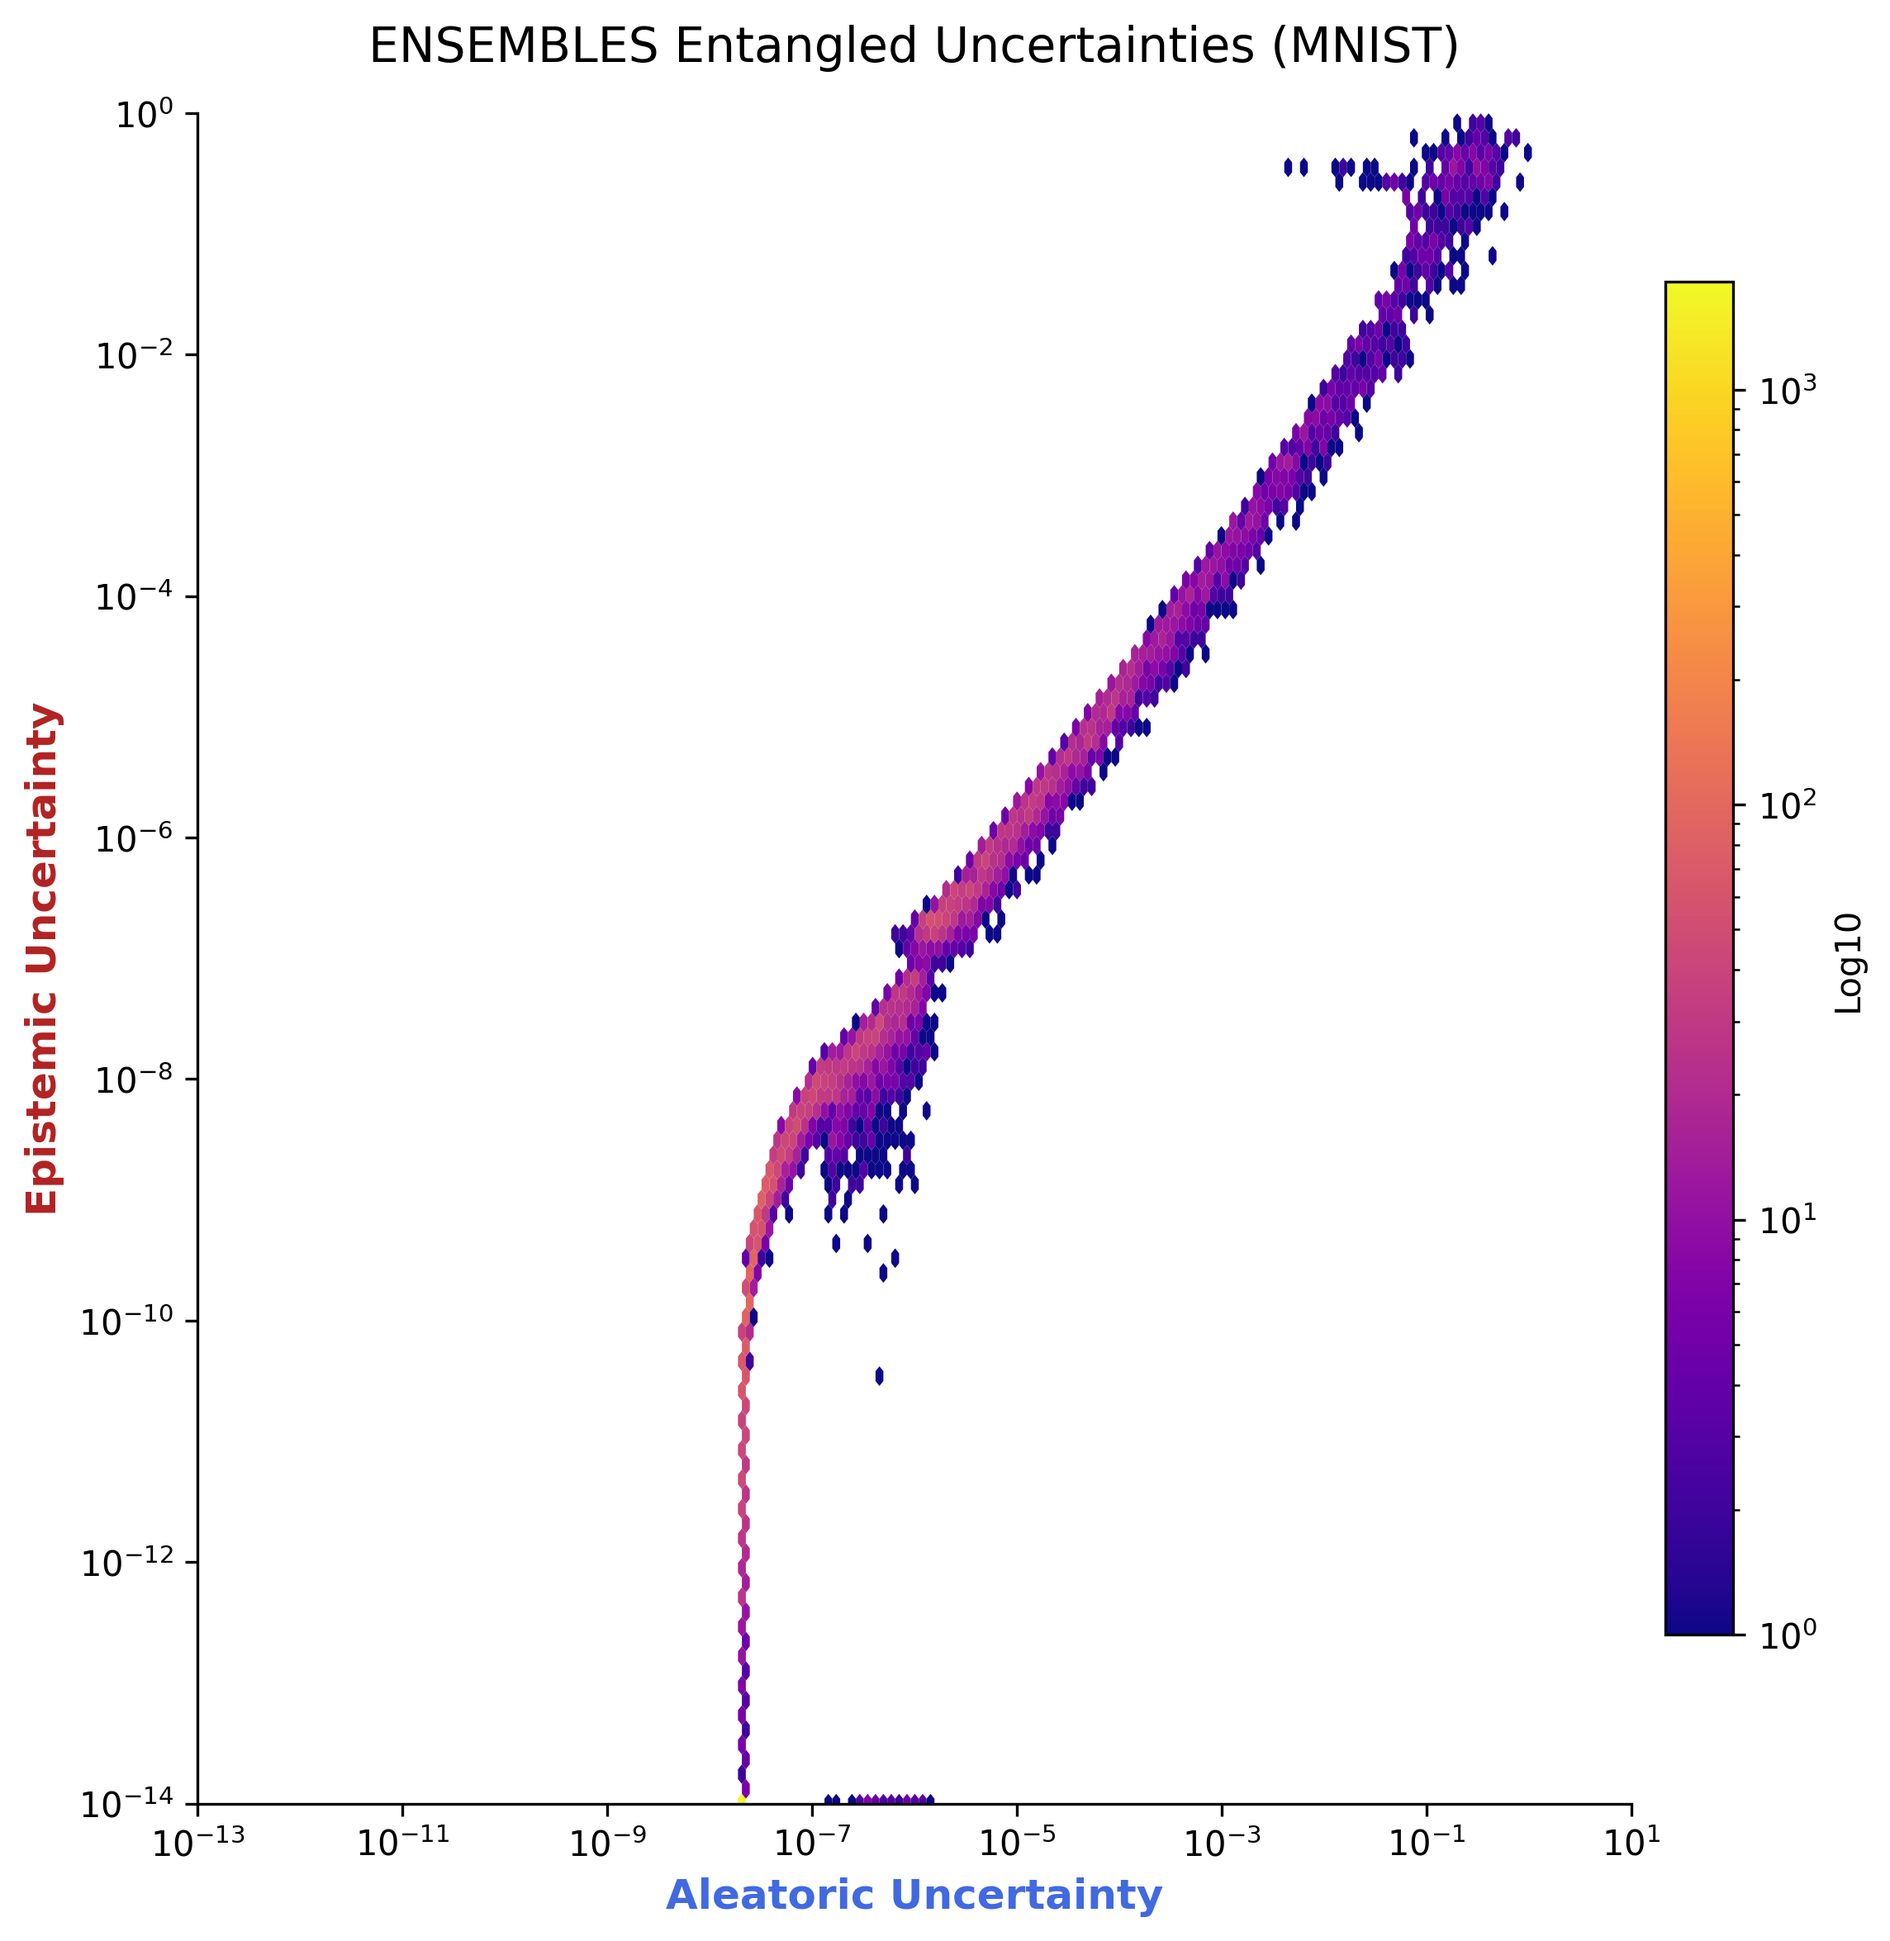
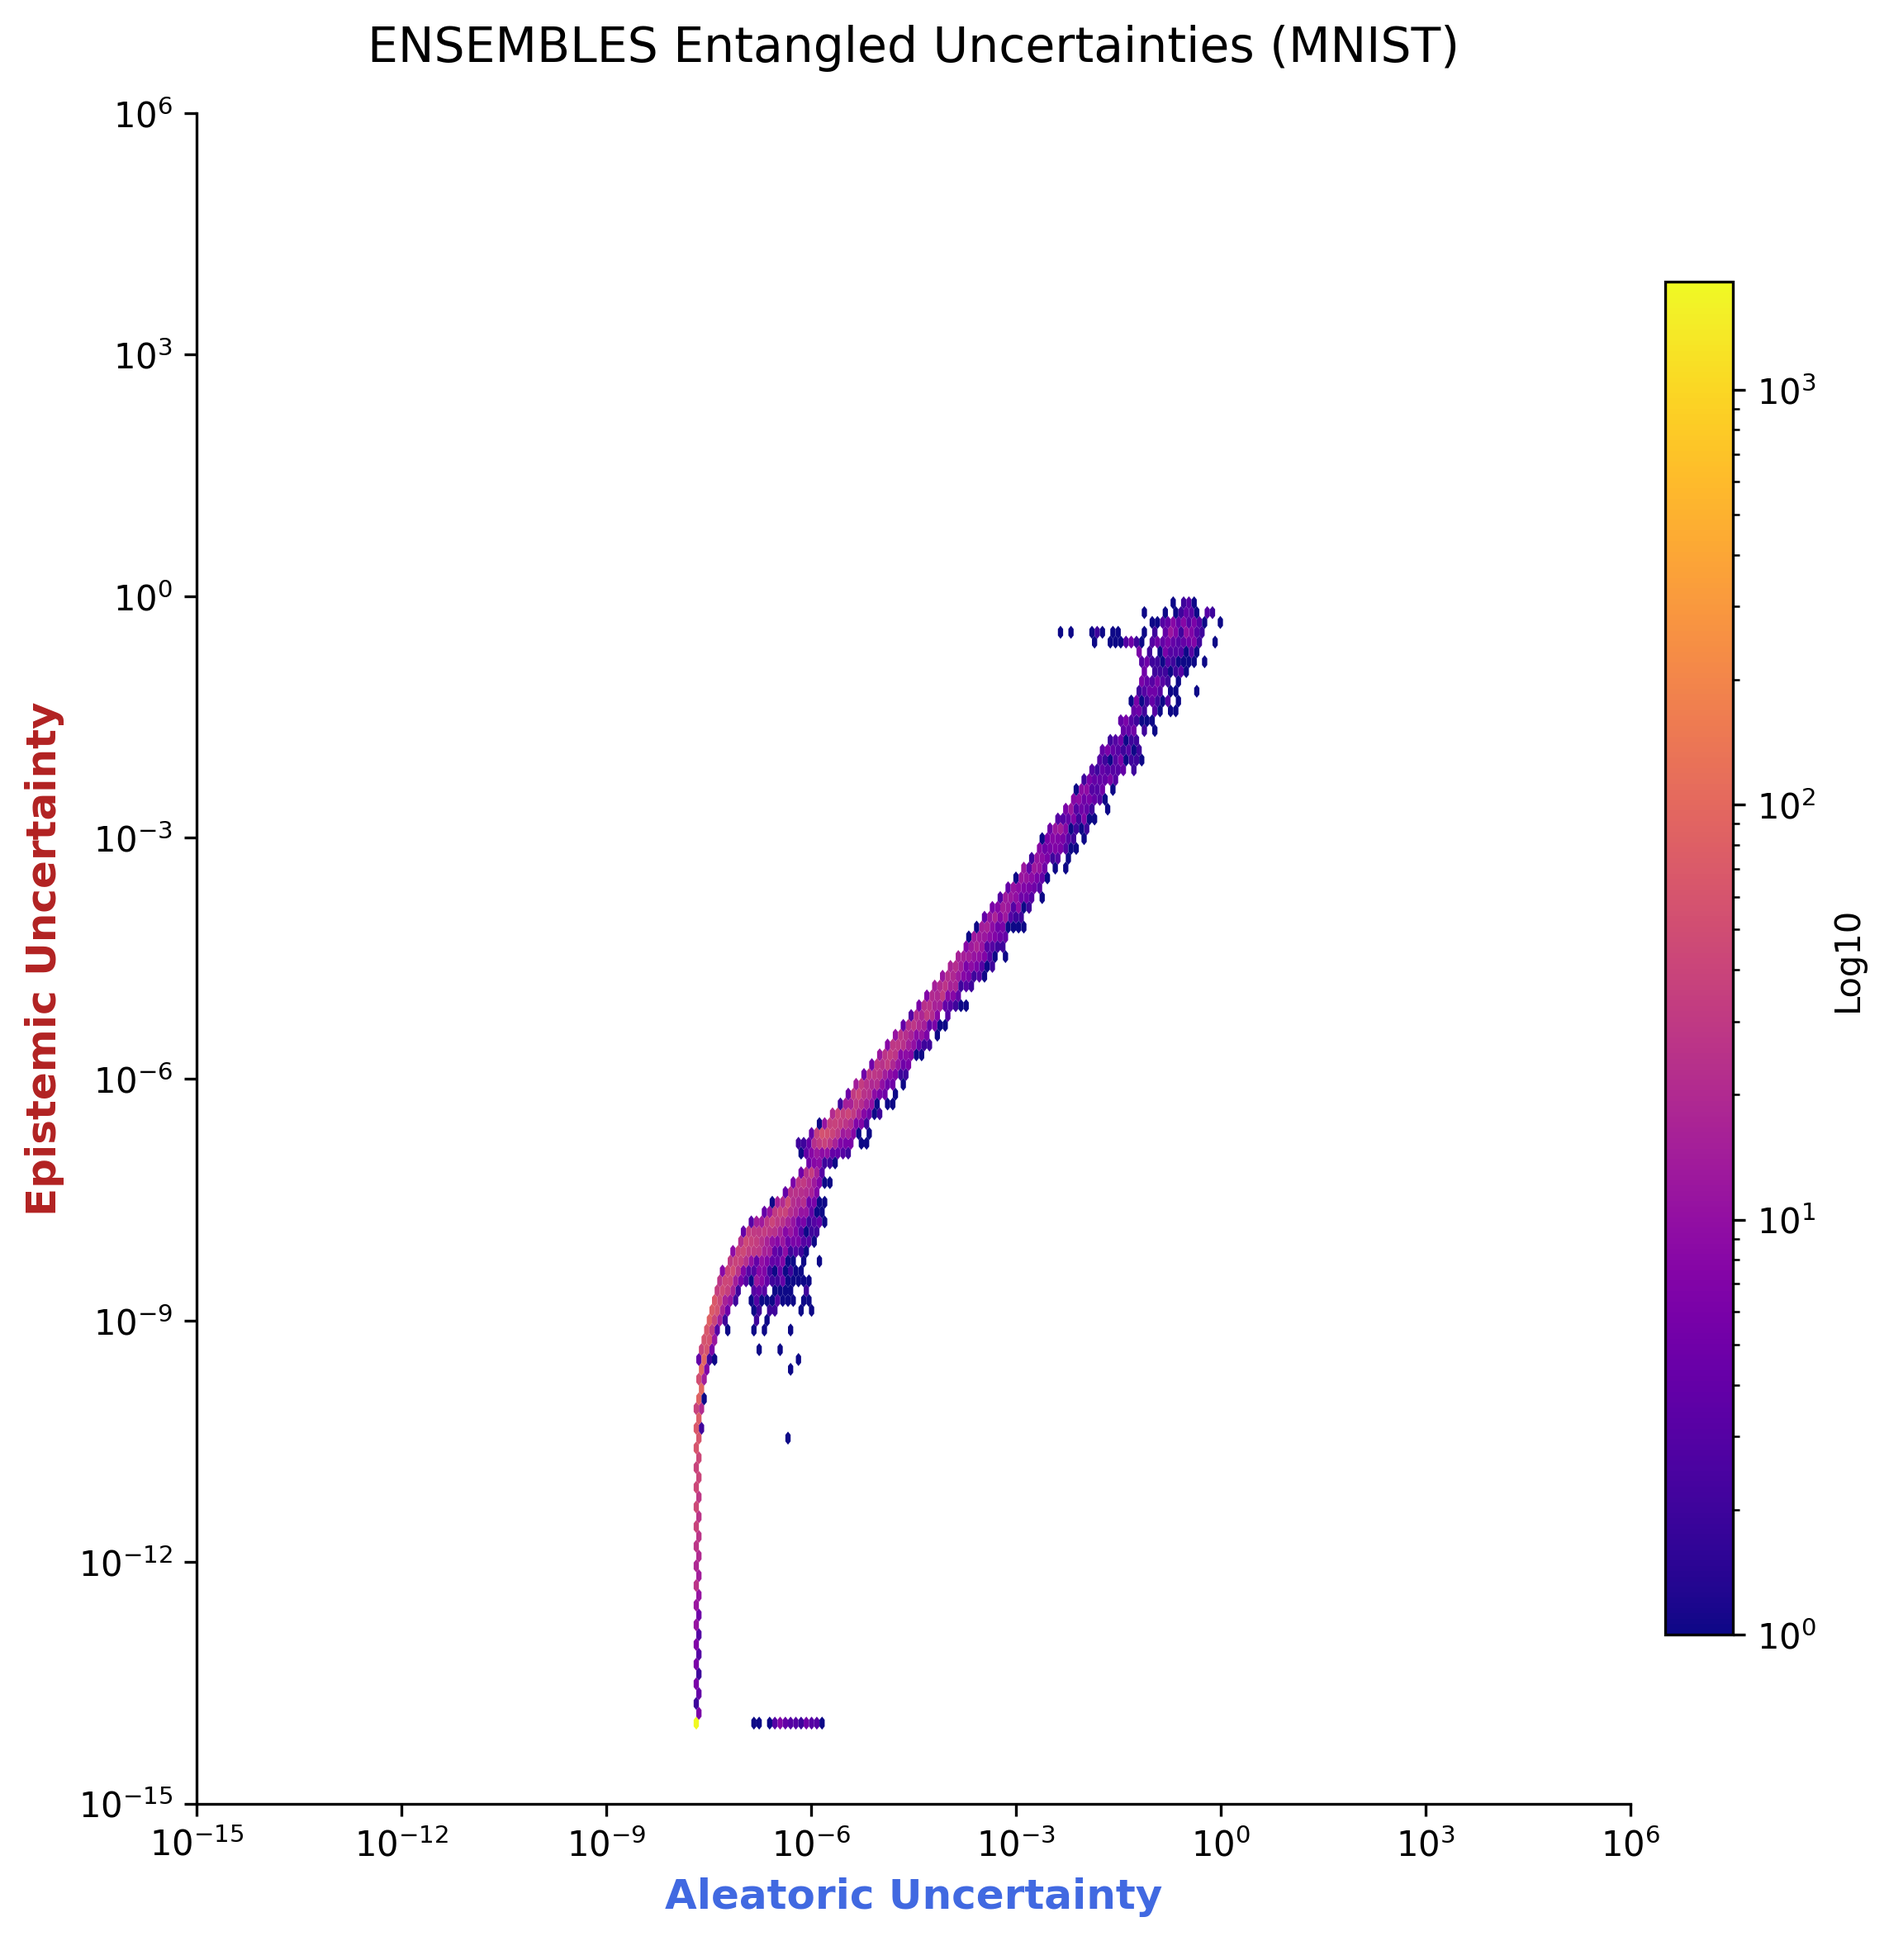
Refactor code structure for improved readability and maintainability

diff --git a/make_plots.py b/make_plots.py
@@ -21,11 +21,14 @@ ALGORITHM_NAME = "ensembles"
 DATASET_NAME = "mnist"
 INPUT_FILE = f"data/{ALGORITHM_NAME}_{DATASET_NAME}_preds.pkl"
 RESULTS_DIR = "results"
-MATH_SETTING = "A"
+MATH_SETTING = "B"
 N_SAMPLES = 1000
 
 PLOT_SETTINGS = {
-    "mnist":   {"x_lim": (1e-13, 1e1), "y_lim": (1e-14, 1e0)},
+    "mnist":   {"x_lim": (1e-15, 1e6), "y_lim": (1e-15, 1e6)},
+    #setting a
+    #mnist
+    # ensembles: {"x_lim": (1e-13, 1e1), "y_lim": (1e-14, 1e0)},
     "emnist":  {"x_lim": (1e-13, 1e1), "y_lim": (1e-14, 1e0)},
     "cifar10": {"x_lim": (1e-4, 5e1),  "y_lim": (1e-5, 5e1)}   
     #setting a 
